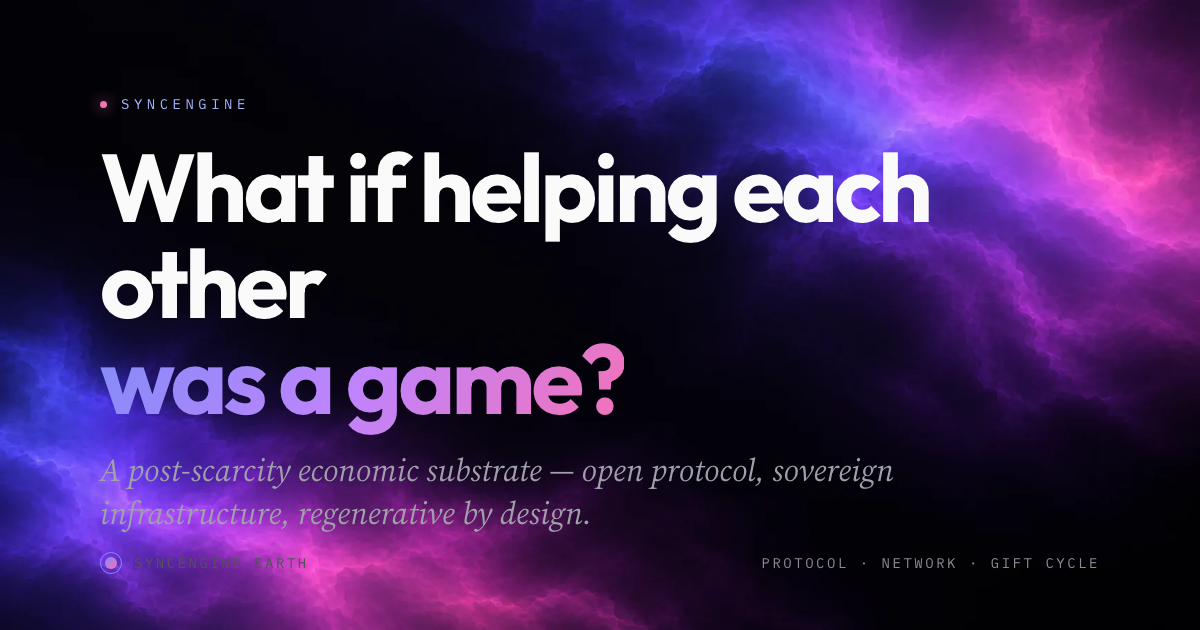
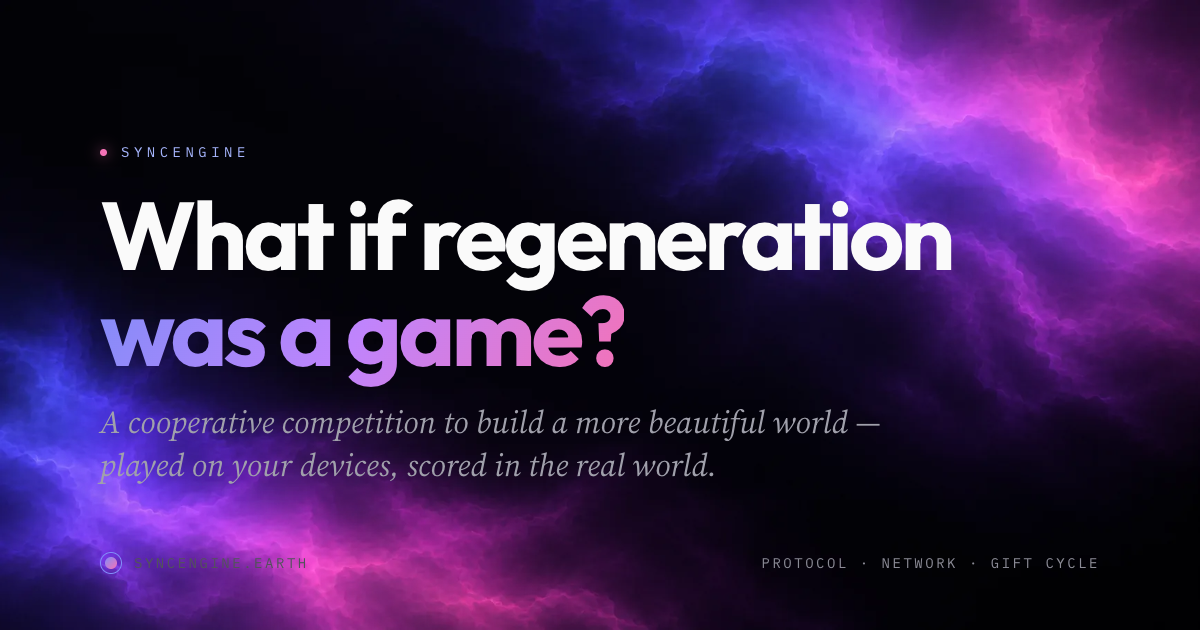
reframe: what if regeneration was a game
Homepage now leads with "What If Regeneration Was a Game?" — the game
produces real-world regeneration, and decentralization follows causally
("a regeneration game can't live on a company's servers"). New thesis
sub-line: cooperative competition, played on your devices, scored in the
real world. Echoes swept into gift-cycle (playthrough framing), network
(closing CTA), and join (subtitle). OG image re-rendered from og-source
with the new headline and lead.

Changed region(s): [[0.0617, 0.2413, 0.8017, 0.6937], [0.0617, 0.7238, 0.74, 0.8444], [0.0925, 0.1508, 0.2158, 0.181]]

diff --git a/index.html b/index.html
@@ -3,19 +3,19 @@
 <head>
 <meta charset="UTF-8">
 <meta name="viewport" content="width=device-width, initial-scale=1.0">
-<title>SyncEngine — What If Helping Each Other Was a Game?</title>
-<meta name="description" content="Imagine a big wish list you share with your friends. Everyone votes with attention; someone steps in to manifest; gratitude worth that attention releases to the doer, signed by both — and flows onward. A game that turns intentions into manifestations, on a sovereign peer-to-peer network.">
+<title>SyncEngine — What If Regeneration Was a Game?</title>
+<meta name="description" content="Imagine a big wish list you share with your friends — the greenhouse repaired, the well dug, the mural painted. Everyone votes with attention; someone steps in to manifest; gratitude worth that attention releases to the doer, signed by both — and flows onward. A game that turns collective attention into real-world regeneration, on a sovereign peer-to-peer network.">
 
 <!-- Open Graph / social previews -->
 <meta property="og:type" content="website">
 <meta property="og:site_name" content="SyncEngine">
-<meta property="og:title" content="SyncEngine — What If Helping Each Other Was a Game?">
-<meta property="og:description" content="A big wish list you share with your friends. Everyone votes with attention; someone manifests it; gratitude worth that attention releases to the doer — and flows onward.">
+<meta property="og:title" content="SyncEngine — What If Regeneration Was a Game?">
+<meta property="og:description" content="A big wish list you share with your friends. Everyone votes with attention; someone manifests it; gratitude worth that attention releases to the doer — and flows onward. A game the real world wins.">
 <meta property="og:url" content="https://www.syncengine.earth/">
 <meta property="og:image" content="https://www.syncengine.earth/assets/og-image.png">
 <meta name="twitter:card" content="summary_large_image">
-<meta name="twitter:title" content="SyncEngine — What If Helping Each Other Was a Game?">
-<meta name="twitter:description" content="A game that turns intentions into manifestations through collective attention — on a sovereign peer-to-peer network.">
+<meta name="twitter:title" content="SyncEngine — What If Regeneration Was a Game?">
+<meta name="twitter:description" content="A game that turns collective attention into real-world regeneration — on a sovereign peer-to-peer network.">
 <meta name="twitter:image" content="https://www.syncengine.earth/assets/og-image.png">
 <link rel="canonical" href="https://www.syncengine.earth/">
 
@@ -28,7 +28,7 @@
       "@id": "https://www.syncengine.earth/#website",
       "url": "https://www.syncengine.earth/",
       "name": "SyncEngine — The Synchronicity Engine",
-      "description": "A game that turns intentions into manifestations through collective attention: a shared wish list among friends, votes of attention, manifestation with proof of service, and gratitude worth the accumulated attention released to the doer — signed by both, then tagged onward to the next wish. Built on Indra's Network, a sovereign peer-to-peer stack: servers are optional, every device holds a full encrypted copy, and to anyone not explicitly allowed your content is post-quantum encrypted noise. Membership by covenant, via donation to Temples of Refuge.",
+      "description": "A game that turns collective attention into real-world regeneration: a shared wish list among friends, votes of attention, manifestation with proof of service, and gratitude worth the accumulated attention released to the doer — signed by both, then tagged onward to the next wish. Built on Indra's Network, a sovereign peer-to-peer stack: servers are optional, every device holds a full encrypted copy, and to anyone not explicitly allowed your content is post-quantum encrypted noise. Membership by covenant, via donation to Temples of Refuge.",
       "publisher": { "@id": "https://www.syncengine.earth/#org" }
     },
     {
@@ -714,8 +714,8 @@
 
 <!-- ═══════════ HERO ═══════════ -->
 <section class="hero" id="hero">
-  <h1 class="hero-h">What If Helping Each Other<br>Was <em>a Game</em>?</h1>
-  <p class="hero-p">Imagine a big wish list you share with all your friends — <strong>the things you want to bring into reality</strong>. This is the story of how it becomes a game.</p>
+  <h1 class="hero-h">What If Regeneration<br>Was <em>a Game</em>?</h1>
+  <p class="hero-p">Imagine a big wish list you share with all your friends — <strong>the world you want to bring into reality</strong>. This is the story of how it becomes a game: one the real world wins.</p>
   <div class="hero-actions">
     <a href="#loop" class="hero-btn">See how it's played ↓</a>
   </div>
@@ -803,7 +803,7 @@
         </div>
         <div class="loop-step" data-stage="5">
           <h3>The cycle continues</h3>
-          <p>The doer tags that gratitude onto <strong>whatever they want to see done next</strong>. Attention becomes manifestation becomes gratitude becomes attention — and with every turn of the loop, the world gets a little more beautiful.</p>
+          <p>The doer tags that gratitude onto <strong>whatever they want to see done next</strong>. Attention becomes manifestation becomes gratitude becomes attention — and every turn of the loop leaves the world a little more beautiful: a greenhouse standing, a well flowing, a wall alive with color.</p>
         </div>
       </div>
 
@@ -816,7 +816,8 @@
 <section class="sect-short" id="thesis" style="text-align:center">
   <div class="wrap">
     <p class="thesis-line r"><span class="m m-from">Intentions</span> become <span class="m m-to">manifestations</span> — through <em>collective attention</em>.</p>
-    <div class="r r-d1">
+    <p class="r r-d1" style="font-size:17px;color:var(--t2);font-weight:300;line-height:1.8;max-width:560px;margin:-8px auto 32px">A cooperative competition to build a more beautiful world — played on your devices, scored in the real world.</p>
+    <div class="r r-d2">
       <a href="/gift-cycle" class="btn btn-moss">Watch one full playthrough &#8594;</a>
     </div>
   </div>
@@ -869,7 +870,7 @@
   <div class="wrap">
     <div class="r" style="text-align:center">
       <h2 class="stage-h" style="font-size:clamp(26px,4vw,44px)">Built on <span style="color:var(--violet)">Indra's Network</span></h2>
-      <p class="gate-p">A sovereign peer-to-peer stack. Servers are optional: every player's device holds a full encrypted copy, and peers connect directly to each other. <strong>Your content is shared only with those you explicitly allow. To everyone else, it is post-quantum encrypted noise.</strong></p>
+      <p class="gate-p">A regeneration game can't live on a company's servers — so this one doesn't. It runs on a sovereign peer-to-peer stack: every player's device holds a full encrypted copy, peers connect directly to each other, and servers are optional. <strong>Your content is shared only with those you explicitly allow. To everyone else, it is post-quantum encrypted noise.</strong></p>
     </div>
 
     <div class="net-cols">

diff --git a/gift-cycle.html b/gift-cycle.html
@@ -4,7 +4,7 @@
   <meta charset="UTF-8">
   <meta name="viewport" content="width=device-width, initial-scale=1.0">
   <title>The Gift Cycle — SyncEngine</title>
-  <meta name="description" content="How the quiet exchange works: intentions named, manifestations made, and gratitude released into a shared ledger signed by both.">
+  <meta name="description" content="One full playthrough of the regeneration game: intentions named, manifestations made, and gratitude released into a shared ledger signed by both.">
   <link rel="canonical" href="https://www.syncengine.earth/gift-cycle">
 
   <meta property="og:type" content="article">
@@ -980,7 +980,8 @@
 
     <p class="story-context r r-d1" style="font-style:normal;color:var(--t2)">
       The tool runs on this quiet exchange — intentions named, manifestations made, offerings
-      held out and received. Attention given freely, and returned.
+      held out and received. Attention given freely, and returned. Every playthrough leaves
+      the world a little more beautiful. That is the whole game.
     </p>
   </div>
 </section>

diff --git a/assets/og-source.html b/assets/og-source.html
@@ -92,8 +92,8 @@
     <div class="grain"></div>
     <div class="content">
       <div class="eyebrow"><span class="dot"></span>SyncEngine</div>
-      <h1>What if helping each other<br><span class="grad">was a game?</span></h1>
-      <div class="lead">A post-scarcity economic substrate — open protocol, sovereign infrastructure, regenerative by design.</div>
+      <h1>What if regeneration<br><span class="grad">was a game?</span></h1>
+      <div class="lead">A cooperative competition to build a more beautiful world — played on your devices, scored in the real world.</div>
     </div>
     <div class="footer">
       <div class="glyph"><span class="ring"></span><span>syncengine.earth</span></div>

diff --git a/join.html b/join.html
@@ -199,7 +199,7 @@
     <section class="join-hero">
       <p class="join-eyebrow">The Community</p>
       <h1 class="join-title">Join the <em>Community</em></h1>
-      <p class="join-subtitle">SyncEngine runs on your own device. This is how you join the people who gather around it.</p>
+      <p class="join-subtitle">SyncEngine runs on your own device. This is how you join the people who play it — and the world they're regenerating together.</p>
     </section>
 
     <section class="commandment" aria-label="The One Commandment">

diff --git a/network.html b/network.html
@@ -1021,7 +1021,7 @@
   <section class="cta-section">
     <div class="wide r">
       <h2>Enter the Field</h2>
-      <p>The mesh is forming. Join the network of sovereign collaboration.</p>
+      <p>The mesh is forming. A regeneration game needs a network no one owns — this is that network.</p>
       <div class="cta-buttons">
         <a href="/" class="btn btn-primary">Back to Synchronicity Engine</a>
         <a href="articles/" class="btn btn-secondary">Read the Articles</a>
